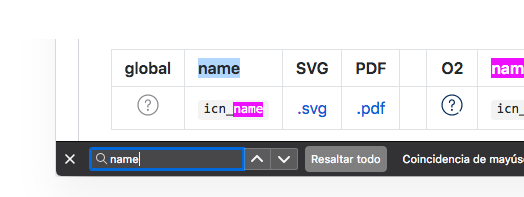
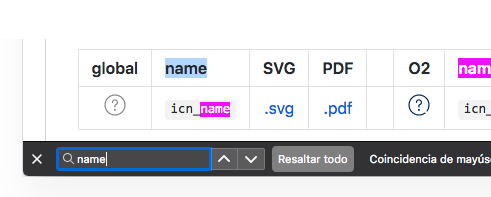
Adde text and updated img

diff --git a/.md-generator/md-generator.py b/.md-generator/md-generator.py
@@ -18,7 +18,7 @@ if __name__ == '__main__':
     files = os.listdir(path)
     root = os.path.basename(path)
     dictionary = {}
-    file_content = "### Mistica icons" + BREAK + "This repo contains all icons that is working in [Mistica Design Libraries](https://github.com/Telefonica/mistica-design-libraries) now." + BREAK + "### Documentation" + BREAK + "You can find more information and how to use this repo in the [Wiki](https://github.com/Telefonica/mistica-icons/wiki)" + BREAK + "### Search in the repo" + BREAK + "The best way to search in this repo is using your browser's search engine:" + BREAK + "![Image of search engine](https://github.com/Telefonica/mistica-icons/blob/production/_resources/_imgs_github/github_img_1.png?raw=true)" + BREAK + "# Icons " + BREAK + "| global | name | SVG | PDF | | O2 | name | SVG | PDF |" + BREAK + "| :-: | :- | :-: | :-: | - | :-: | :- | :-: | :-: |" + BREAK
+    file_content = "### Mistica icons" + BREAK + "This repo contains all icons that is working in [Mistica Design Libraries](https://github.com/Telefonica/mistica-design-libraries) now." + BREAK + "### Documentation" + BREAK + "You can find more information and how to use this repo in the [Wiki](https://github.com/Telefonica/mistica-icons/wiki)." + BREAK + "### Search in the repo" + BREAK + "The best way to search in this repo is using your browser's search engine:" + BREAK + "![Image of search engine](https://github.com/Telefonica/mistica-icons/blob/production/_resources/_imgs_github/github_img_1.png?raw=true)" + BREAK + "# Icons " + BREAK + "| global | name | SVG | PDF | | O2 | name | SVG | PDF |" + BREAK + "| :-: | :- | :-: | :-: | - | :-: | :- | :-: | :-: |" + BREAK
     for brand in files:
         brand_folder = path + SLASH + brand
         if os.path.isdir(brand_folder) and brand != ".DS_Store":
